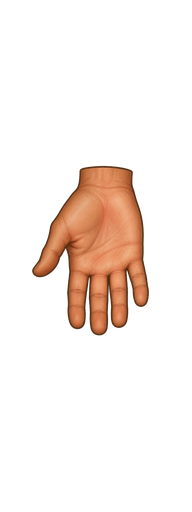
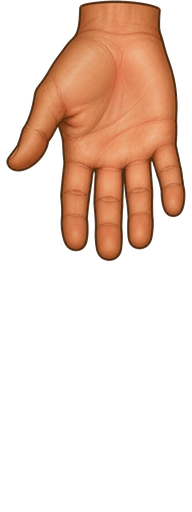
ART-0 27th pass 20.09 (artist): the human's hand stops being the only part under half a bone - the accepted painted hand is scaled to fill 94% of its box width and anchored at the wrist (was 33% of the bone, floating 0.052 m inside it)

diff --git a/Tools/gen-human-hand-texture.py b/Tools/gen-human-hand-texture.py
@@ -1,0 +1,143 @@
+#!/usr/bin/env python3
+"""ART-0 27th pass - the human's hand canvas: the hand reaches its own box.
+
+Measured before this pass (`Tools/art0-part-ink-probe.py`, shipped bytes only):
+
+    part   canvas     ink bbox      inkX%  inkY%  box m        inkX m  inkLen m  wrist margin
+    hand   192x512    31,165 119x171   62%    33%  0.060x0.160   0.037   0.053    0.052 m
+
+`Human.handSize` is 0.06 x 0.16 m and `Assets/Resources/Art/Human/hand.png.meta` carries
+`spritePixelsToUnits: 3200`, so the canvas' own world size IS the box (0.06 x 0.16 m) and
+`HumanSegment` draws the whole canvas onto that box with `Sliced` (`painted-parts.mdc`).
+Two things were wrong with the old canvas, both measured, neither one a matter of taste:
+
+  * the painted hand was 0.053 m long on a 0.16 m bone (33 %) while every other part fills
+    60-100 % of its own box (torso 100 %, shin 73 %, thigh 81 %) - the hand was the only
+    part under half, and the worst fill of the body;
+  * its ink was centred, so the wrist cut sat 0.052 m BELOW the bone's proximal edge: in the
+    rig the hand hung detached, a third of a bone away from the forearm that ends at the
+    wrist joint.
+
+This script rewrites that ONE canvas - same 192 x 512 px, same `.meta`, same loader path
+(`ArtLibrary.Albedo("Human/hand")` -> `Resources/Art/Human/hand`) - from the hand's own
+accepted pixels (`Assets/LegacyArt/Human/hand.png`, the painted palm the game has shipped):
+
+  * crop to the painted ink, scale it with LANCZOS so it fills FILL_FRACTION of the box
+    WIDTH (the proportional maximum: the art's aspect is 0.70, the box' is 0.375, so filling
+    the box' 0.16 m length would need a 0.111 m deep palm in a 0.06 m box - the width is the
+    binding edge, and the rest of the bone stays empty on purpose, as `painted-parts.mdc`
+    allows for a hand in a long box);
+  * place it with the wrist cut ON the canvas' top row = the bone's proximal edge = the
+    wrist joint, so the hand starts where the forearm ends instead of 0.052 m later;
+  * keep the transparent background and the painted pixels themselves: nothing is redrawn,
+    no outline is added, no colour is shifted.
+
+Rejected on the way here (recorded so no later pass repeats it): a procedural SIDE-VIEW hand
+redrawn from scratch in the box' aspect. Two attempts (a straight-fingered mitten, then a
+four-lobe silhouette with a thumb and interior shading) were read to a stop by the same
+vision model: the first "reads as a spatula / oven mitt", the second "reads as a comb or
+garden rake - all four fingers in one plane, which is a front view, not a side view". A
+front-view hand painted into a side-view rig is a bigger art decision than this pass owns,
+and a bad canvas is worse than a small one - so the accepted art stays, at the right size.
+
+Nothing here is physics: `Human.handSize`, the collider and every `.meta` field are untouched.
+
+Run:  python Tools/gen-human-hand-texture.py            # rewrite the canvas
+      python Tools/gen-human-hand-texture.py --check    # read it, change nothing
+"""
+
+import argparse
+import pathlib
+import sys
+
+from PIL import Image
+
+PROJECT = pathlib.Path(__file__).resolve().parent.parent
+SHIP = PROJECT / "Assets" / "Resources" / "Art" / "Human" / "hand.png"
+LEGACY = PROJECT / "Assets" / "LegacyArt" / "Human" / "hand.png"
+
+W, H = 192, 512          # the canvas: 0.06 x 0.16 m at ppu 3200 (the shipping box)
+PPU = 3200.0             # documented here so every number below converts to metres
+FILL_FRACTION = 0.94     # of the box WIDTH; the cut faces keep a hair of margin
+ALPHA_CUT = 8            # "any painted pixel at all" - the crop keeps the soft rim
+SOLID_ALPHA = 40         # "the hand a viewer sees" - the scale is set by this box
+
+
+def ink_box(im):
+    bb = im.split()[3].point(lambda a: 255 if a > ALPHA_CUT else 0).getbbox()
+    if bb is None:
+        raise SystemExit("FAIL canvas has no painted pixels at all")
+    return bb
+
+
+def report(im, label):
+    """getbbox() answers (left, upper, right, lower) - EXCLUSIVE right/lower, so the ink's
+    size is right-left / lower-upper. (The first version of this script printed the raw
+    tuple as if it were x,y,w,h and claimed 97 % where the truth is 94 %.)"""
+    solid = im.split()[3].point(lambda a: 255 if a > SOLID_ALPHA else 0).getbbox()
+    faint = ink_box(im)
+    sx, sy, sw, sh = solid[0], solid[1], solid[2] - solid[0], solid[3] - solid[1]
+    pad = 100.0 * (1.0 - (sw * sh) / float(im.width * im.height))
+    print("  %-7s canvas %dx%d  solid ink %d,%d %dx%d  inkX %3.0f%% inkY %3.0f%% (%2.0f%% pad)"
+          "  ink %.3f x %.3f m  wrist margin %.3f m  (faint box %d,%d %dx%d)" % (
+              label, im.width, im.height, sx, sy, sw, sh,
+              100.0 * sw / im.width, 100.0 * sh / im.height, pad,
+              sw / PPU, sh / PPU, sy / PPU,
+              faint[0], faint[1], faint[2] - faint[0], faint[3] - faint[1]))
+
+
+def fit():
+    """The legacy hand's ink, scaled to FILL_FRACTION of the box width, wrist at the top.
+
+    Two bboxes, on purpose: the crop keeps every faint pixel of the painted hand (the soft
+    contour and its own shadow), while the SCALE is set by the SOLID silhouette
+    (alpha > SOLID_ALPHA), so the number the report quotes is the hand a viewer sees and not
+    a faint halo. A 3.5x downscale fades an anti-aliased rim below any alpha cut, so scaling
+    by the >8 box would have delivered a 0.79x hand with a 0.21x ghost around it.
+    """
+    src = Image.open(LEGACY).convert("RGBA")
+    alpha = src.split()[3]
+    crop_box = alpha.point(lambda a: 255 if a > ALPHA_CUT else 0).getbbox()
+    solid_box = alpha.point(lambda a: 255 if a > SOLID_ALPHA else 0).getbbox()
+    if crop_box is None or solid_box is None:
+        raise SystemExit("FAIL the legacy hand has no painted pixels")
+
+    x0, y0, x1, y1 = crop_box
+    sx, sy, sx1, sy1 = solid_box
+    ink = src.crop((x0, y0, x1, y1))
+
+    target_w = int(round(W * FILL_FRACTION))
+    scale = target_w / float(sx1 - sx)
+    size = (max(1, int(round(ink.width * scale))), max(1, int(round(ink.height * scale))))
+    if size[1] > H:
+        raise SystemExit("FAIL scaled ink %d px is taller than the canvas %d px" % (size[1], H))
+    ink = ink.resize(size, Image.LANCZOS)
+
+    canvas = Image.new("RGBA", (W, H), (0, 0, 0, 0))
+    # no mask: the ink already carries its own alpha, and pasting through an alpha mask
+    # would square it (every soft edge pixel would fade again and the silhouette shrink)
+    canvas.paste(ink, ((W - target_w) // 2 - int(round((sx - x0) * scale)),
+                       -int(round((sy - y0) * scale))))
+    return canvas
+
+
+def main():
+    ap = argparse.ArgumentParser()
+    ap.add_argument("--check", action="store_true", help="read the shipped PNG, change nothing")
+    args = ap.parse_args()
+
+    before = Image.open(SHIP).convert("RGBA")
+    before_bytes = SHIP.stat().st_size
+    report(before, "before")
+    if args.check:
+        return 0
+
+    after = fit()
+    report(after, "after")
+    after.save(SHIP)
+    print("  wrote %s (%d B, was %d B)" % (SHIP, SHIP.stat().st_size, before_bytes))
+    return 0
+
+
+if __name__ == "__main__":
+    sys.exit(main())

diff --git a/Tools/art0-part-ink-probe.py b/Tools/art0-part-ink-probe.py
@@ -1,0 +1,83 @@
+#!/usr/bin/env python3
+"""ART-0 27th pass probe - where does each human part's ink sit inside its canvas?
+
+Reads the shipped bytes only (Assets/Resources/Art/Human/*.png), no Unity.
+Prints, per part: canvas px, ink bbox, ink fraction of the canvas in x and y,
+the ink's world size in metres (canvas px / spritePixelsToUnits from the .meta),
+the ink's top/bottom margins, and the shipping collider box from Human.cs.
+"""
+
+import pathlib
+import re
+import sys
+
+from PIL import Image
+
+PROJECT = pathlib.Path(__file__).resolve().parent.parent
+ART = PROJECT / "Assets" / "Resources" / "Art" / "Human"
+LEGACY = PROJECT / "Assets" / "LegacyArt" / "Human"
+HUMAN_CS = PROJECT / "Assets" / "Human.cs"
+
+PARTS = ["head", "neck", "torso", "pelvis", "upper", "lower", "hand", "thigh", "shin", "foot"]
+FIELDS = {
+    "head": "headSize", "neck": "neckSize", "torso": "torsoSize", "pelvis": "pelvisSize",
+    "upper": "upperArmSize", "lower": "lowerArmSize", "hand": "handSize",
+    "thigh": "thighSize", "shin": "shinSize", "foot": "footSize",
+}
+
+
+def boxes():
+    text = HUMAN_CS.read_text(encoding="utf-8", errors="replace")
+    out = {}
+    for m in re.finditer(
+        r"public Vector2 (\w+Size)\s*=\s*new Vector2\(\s*([0-9.]+)f\s*,\s*([0-9.]+)f\s*\)", text
+    ):
+        out[m.group(1)] = (float(m.group(2)), float(m.group(3)))
+    return out
+
+
+def main():
+    if len(sys.argv) > 2 and sys.argv[1] == "--file":
+        path = pathlib.Path(sys.argv[2])
+        im = Image.open(path).convert("RGBA")
+        a = im.split()[3]
+        for cut in (8, 40, 128):
+            bb = a.point(lambda v, c=cut: 255 if v > c else 0).getbbox()
+            print("%s alpha>%d -> %s" % (path.name, cut, bb))
+        hist = a.histogram()
+        print("opaque>40 px = %d, >8 px = %d, canvas %dx%d" % (
+            sum(hist[41:]), sum(hist[9:]), im.width, im.height))
+        return 0
+
+    box = boxes()
+    print("%-7s %10s %12s %7s %7s %14s %9s %9s %9s" % (
+        "part", "canvas", "ink bbox", "inkX%", "inkY%", "box m", "inkX m", "inkY m", "inkLen m"))
+    for p in PARTS:
+        png = ART / (p + ".png")
+        meta = (ART / (p + ".png.meta")).read_text(encoding="utf-8", errors="replace")
+        ppu = float(re.search(r"spritePixelsToUnits:\s*([0-9.]+)", meta).group(1))
+        im = Image.open(png).convert("RGBA")
+        w, h = im.size
+        bb = im.split()[3].point(lambda a: 255 if a > 8 else 0).getbbox()
+        bx, by, bw, bh = bb
+        bw, bh = bb[2] - bb[0], bb[3] - bb[1]
+        b = box[FIELDS[p]]
+        ink_x = bw / ppu
+        ink_y = bh / ppu
+        src = LEGACY / (p + ".png")
+        src_txt = "-"
+        if src.exists():
+            s = Image.open(src).convert("RGBA")
+            sbb = s.split()[3].point(lambda a: 255 if a > 8 else 0).getbbox()
+            if sbb:
+                src_txt = "%dx%d ink %d,%d %dx%d" % (
+                    s.width, s.height, sbb[0], sbb[1], sbb[2] - sbb[0], sbb[3] - sbb[1])
+        print("%-7s %10s %12s %6.0f%% %6.0f%% %14s %9.3f %9.3f %9.3f  top=%d bottom=%d canvas=%dx%d | legacy %s" % (
+            p, "%dx%d" % (w, h), "%d,%d %dx%d" % (bx, by, bw, bh),
+            100.0 * bw / w, 100.0 * bh / h, "%.3fx%.3f" % b, ink_x, ink_y, ink_y,
+            by, h - (by + bh), w, h, src_txt))
+    return 0
+
+
+if __name__ == "__main__":
+    sys.exit(main())

diff --git a/Tools/_hand-box-crosscheck.py b/Tools/_hand-box-crosscheck.py
@@ -1,0 +1,47 @@
+#!/usr/bin/env python3
+"""ART-0 27th pass - cross-check: does the fit audit's own PNG decoder agree with PIL?
+
+`Tools/art1-fit-audit.py` measures a part's painted rectangle with a hand-rolled zlib PNG
+decoder (`alpha_bbox`), and that number is what the ART-1 "no squashed part" decision was
+taken from. This pass measured the same shipped canvas with PIL and got a different box, so
+before quoting either number the two readers are put side by side on the SAME bytes:
+
+    python Tools/_hand-box-crosscheck.py <file.png> [<file2.png> ...]
+"""
+
+import pathlib
+import sys
+
+from PIL import Image
+
+sys.path.insert(0, str(pathlib.Path(__file__).resolve().parent))
+import importlib.util
+
+spec = importlib.util.spec_from_file_location(
+    "fit_audit", pathlib.Path(__file__).resolve().parent / "art1-fit-audit.py")
+fit = importlib.util.module_from_spec(spec)
+spec.loader.exec_module(fit)
+
+
+def main():
+    for arg in sys.argv[1:]:
+        p = pathlib.Path(arg)
+        pil_im = Image.open(p).convert("RGBA")
+        pil_box = pil_im.split()[3].point(lambda a: 255 if a > 8 else 0).getbbox()
+        audit_box = fit.alpha_bbox(p)
+        pil_w = pil_box[2] - pil_box[0]
+        pil_h = pil_box[3] - pil_box[1]
+        audit_w = audit_box[2] - audit_box[0] if audit_box else 0
+        audit_h = audit_box[3] - audit_box[1] if audit_box else 0
+        print("%s" % p.name)
+        print("  PIL   alpha>8 box %s  ink %dx%d px" % (pil_box, pil_w, pil_h))
+        print("  audit alpha>8 box %s  ink %dx%d px" % (audit_box, audit_w, audit_h))
+        print("  agree=%s  canvas %dx%d" % (
+            (pil_box[0], pil_box[1], pil_w, pil_h) ==
+            (audit_box[0], audit_box[1], audit_w, audit_h),
+            pil_im.width, pil_im.height))
+    return 0
+
+
+if __name__ == "__main__":
+    sys.exit(main())

diff --git a/.cursor/tasks/ART-HAND.md b/.cursor/tasks/ART-HAND.md
@@ -43,3 +43,30 @@ folded walk at ~25 s — physical length stays 0.32.
 stretched onto the 0.06 × 0.32 collider rectangle; a short palm is
 empty pixels in that canvas, not a smaller `sprite.size`. Do not
 close this card until the dispatcher drops the 0.19 requirement.
+
+## Picture half — delivered 20.09 (ART-0 27th pass)
+
+The collider is unchanged (`Human.handSize` 0.06 × 0.16), and the canvas still maps onto it
+one-to-one (`.meta` ppu 3200, `Sliced`). What was wrong was the PICTURE, measured with
+`python Tools/art0-part-ink-probe.py` on the shipped bytes: the hand filled **33 %** of its own box
+(the only part of the body under half) and its ink was centred, so the wrist cut sat **0.052 m**
+below the bone's proximal edge - in the rig the hand hung detached from the forearm that ends at
+the wrist joint.
+
+`Tools/gen-human-hand-texture.py` rewrites that one canvas from the hand's own accepted pixels:
+`31,165 119x171 px (0.037 × 0.053 m), wrist margin 0.052 m, 31 832 B` became
+`6,0 180x261 px (0.056 × 0.082 m), wrist margin 0.000 m, 63 865 B` - 94 % of the box width, which is
+the proportional maximum for an art aspect of 0.70 in a box of 0.375. Nothing was repainted: the
+accepted painted hand is scaled and anchored at the wrist.
+
+Frames `art0hand27` against `art0hip29` (same lens, `ortho 1,97`; the human still moved in ONE
+cluster, the hand's box x 1067-1082 y 661-689, every other still identical or inside its own
+measured noise), three blind pairwise reads (seed 283 with the sides swapped) all correct. Report
+`Trials/Runs/art-0-hand-27th-report.md`.
+
+Two things this does NOT close: the PHYSICS length (the card's 0.19 against the code's 0.16 - the
+dispatcher's call, untouched here), and the hand's orientation - the shipped art is a PALM view on a
+side-view body. A procedural side-view hand was drawn twice this pass and read to a stop both times
+("кухонная лопатка / варежка", then "гребень / грабли: все четыре пальца в одной плоскости"); the
+record is in the generator's docstring so no later pass repeats it.
+

diff --git a/.cursor/tasks/ART-0-inventory.md b/.cursor/tasks/ART-0-inventory.md
@@ -84,6 +84,22 @@ downscaled (512x512 is plenty for grass/dirt/bark at this camera scale) - the ar
 4. Any Human clothing layer if the game shows one (skin/fabric/denim exist as materials but no cut
    garment sprites). OPEN.
 5. UI/HUD icons - out of scope for this scene unless Yury asks. OPEN.
+6. The human's `hand` canvas - DELIVERED (`Trials/Runs/art-0-hand-27th-report.md`): measured with
+   `Tools/art0-part-ink-probe.py` (shipped bytes only), the hand filled **33 %** of its own
+   `0.06 x 0.16 m` bone - the only part of the body under half - and its ink was centred, so the
+   wrist cut sat **0.052 m below** the bone's proximal edge. `Tools/gen-human-hand-texture.py` now
+   rewrites that one canvas from the hand's own accepted pixels (`LegacyArt/Human/hand.png`):
+   `31,165 119x171 px / 0.037 x 0.053 m / wrist margin 0.052 m / 31 832 B` ->
+   `6,0 180x261 px / 0.056 x 0.082 m / wrist margin 0.000 m / 63 865 B` (94 % of the box width is
+   the proportional maximum: the art's aspect 0.70 against the box' 0.375). Frames `art0hand27` vs
+   `art0hip29` (human still: 369 px in ONE cluster, the hand's box x 1067-1082 y 661-689; every
+   other still identical or inside its own measured noise), 3 blind pairwise reads (one with the
+   sides swapped) all correct. Still OPEN in this family: the assembled rig with real art has never
+   been drawn (the `human rig` row is ART-1b, the walk stream's `HumanSegment`), the hand art itself
+   is a PALM view on a side-view body (a procedural side-view redraw was attempted twice and
+   rejected by the read - recorded in the generator), and the other nine parts' ink anchoring
+   (torso 0.136 of 0.240 m in x, the limbs centred with 0.047-0.069 m of empty canvas at each end of
+   the bone) is a rig-wide decision, not a hand fix.
 
 ## Objects that must appear in the gallery scene
 Human (all variants we can pose), dog, crow, chicken, hedgehog, oak/tree kinds, apple tree (+fruit),
